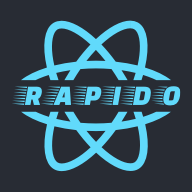
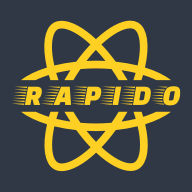
Fixing assets for templates

Changed region(s): [[0.0625, 0.0938, 0.9375, 0.9062]]

diff --git a/packages/rapido-template-typescript/template/views/MainView.tsx b/packages/rapido-template-typescript/template/views/MainView.tsx
@@ -35,7 +35,7 @@ const styles = StyleSheet.create({
     flex: 1,
     alignItems: 'center',
     justifyContent: 'center',
-    backgroundColor: '#282c34',
+    backgroundColor: '#303846',
   },
   headerText: {
     fontSize: 48,
@@ -47,12 +47,12 @@ const styles = StyleSheet.create({
     color: 'white',
   },
   boldText: {
-    color: '#61dbfb',
+    color: '#FDD023',
     fontWeight: 'bold',
   },
   textLink: {
     fontSize: 18,
-    color: '#61dbfb',
+    color: '#FDD023',
     marginVertical: 20,
     fontWeight: 'bold',
     textDecorationLine: 'underline',

diff --git a/packages/rapido-template/template/views/MainView.js b/packages/rapido-template/template/views/MainView.js
@@ -31,7 +31,7 @@ const styles = StyleSheet.create({
     flex: 1,
     alignItems: 'center',
     justifyContent: 'center',
-    backgroundColor: '#282c34',
+    backgroundColor: '#303846',
   },
   headerText: {
     fontSize: 48,
@@ -43,12 +43,12 @@ const styles = StyleSheet.create({
     color: 'white',
   },
   boldText: {
-    color: '#61dbfb',
+    color: '#FDD023',
     fontWeight: 'bold',
   },
   textLink: {
     fontSize: 18,
-    color: '#61dbfb',
+    color: '#FDD023',
     marginVertical: 20,
     fontWeight: 'bold',
     textDecorationLine: 'underline',

diff --git a/packages/rapido-template-typescript/template/theme.ts b/packages/rapido-template-typescript/template/theme.ts
@@ -21,7 +21,7 @@ declare module 'styled-components' {
 // default theme
 const theme: DefaultTheme = {
   colors: {
-    primary: '#61dbfb',
+    primary: '#FDD023',
   },
   fontSizes: [12, 14, 16, 20, 24, 32, 48, 64, 96],
   space: [0, 4, 8, 16, 32, 64, 128, 256, 512],

diff --git a/packages/rapido-template/template/theme.js b/packages/rapido-template/template/theme.js
@@ -2,7 +2,7 @@
 // default theme
 const theme = {
   colors: {
-    primary: '#61dbfb',
+    primary: '#FDD023',
   },
   fontSizes: [12, 14, 16, 20, 24, 32, 48, 64, 96],
   space: [0, 4, 8, 16, 32, 64, 128, 256, 512],
